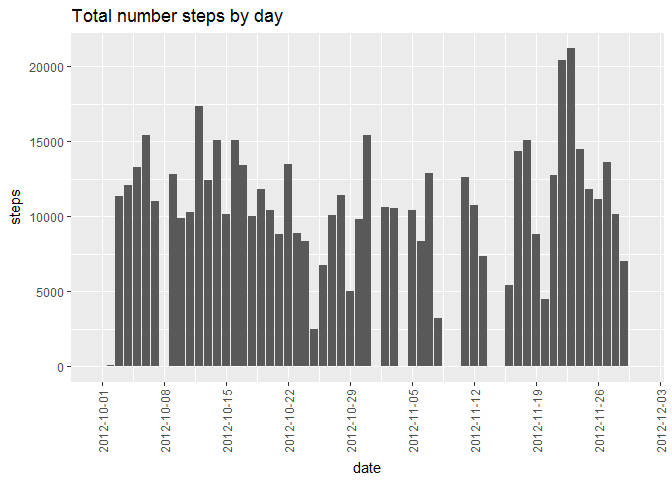
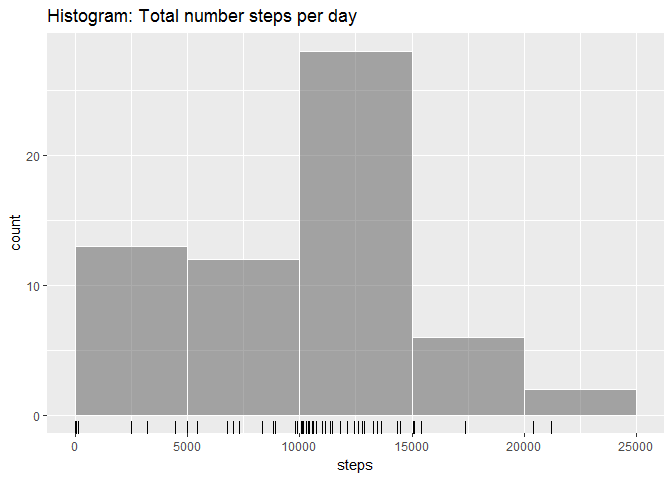
update plot

diff --git a/PA1_template.html b/PA1_template.html
@@ -146,10 +146,14 @@ summary(activity)</code></pre>
 <h2>What is mean total number of steps taken per day?</h2>
 <pre class="r"><code># 1. Calculate the total number of steps taken per day
 tots &lt;- setNames(aggregate(activity$steps,by=list(activity$date), sum, na.rm =TRUE), c(&quot;date&quot;,&quot;steps&quot;))</code></pre>
-<pre class="r"><code># 2. Make a histogram of the total number of steps taken each day
-toth &lt;- ggplot(data=tots, aes(x=date, y=steps)) + geom_bar(stat='identity') + scale_x_date(date_breaks = '1 week') + theme(axis.text.x = element_text(angle=90, vjust=0.5)) + labs(title=&quot;Total number steps by day&quot;)
+<pre class="r"><code># 2. Make a histogram of the total number of steps taken each day (If you do not understand the difference between a histogram and a barplot, research the difference between them.)
+toth &lt;- ggplot(data=tots, aes(steps)) + geom_histogram(breaks=seq(0,25000,by=5000), alpha=.5, col=&quot;white&quot;) + labs(title=&quot;Histogram: Total number steps per day&quot;) + geom_rug()
 print(toth)</code></pre>
[2 lines of base64/hex data omitted]
+<pre class="r"><code># 2. Make a barplot
+totbp &lt;- ggplot(data=tots, aes(x=date, y=steps)) + geom_bar(stat='identity') + scale_x_date(date_breaks = '1 week') + theme(axis.text.x = element_text(angle=90, vjust=0.5)) + labs(title=&quot;Barplot: Total number steps by day&quot;)
+print(totbp)</code></pre>
[1 lines of base64/hex data omitted]
 <pre class="r"><code># 3. Calculate and report the mean and median of the total number of steps taken per day
 mea &lt;- mean(tots$steps)
 med &lt;- median(tots$steps)</code></pre>
@@ -200,9 +204,14 @@ summary(activityc)</code></pre>
 
 totsc &lt;- setNames(aggregate(activityc$steps,by=list(activityc$date), sum), c(&quot;date&quot;,&quot;steps&quot;))
 
-tothc &lt;- ggplot(data=totsc, aes(x=date, y=steps)) + geom_bar(stat='identity') + scale_x_date(date_breaks = '1 week') + theme(axis.text.x = element_text(angle=90, vjust=0.5)) + labs(title=&quot;Total number steps by day&quot;)
+tothc &lt;- ggplot(data=totsc, aes(steps)) + geom_histogram(breaks=seq(0,25000,by=5000), alpha=.5, col=&quot;white&quot;) + labs(title=&quot;Histogram: Total number steps per day with imputed values&quot;) + geom_rug()
 print(tothc)</code></pre>
[2 lines of base64/hex data omitted]
+<pre class="r"><code># Make a barplot
+
+totbpc &lt;- ggplot(data=totsc, aes(x=date, y=steps)) + geom_bar(stat='identity') + scale_x_date(date_breaks = '1 week') + theme(axis.text.x = element_text(angle=90, vjust=0.5)) + labs(title=&quot;Barplot: Total number steps by day with imputed values&quot;)
+print(totbpc)</code></pre>
[1 lines of base64/hex data omitted]
 <pre class="r"><code>meac &lt;- mean(totsc$steps)
 medc &lt;- median(totsc$steps)</code></pre>
 <p>The mean and median of the total number of steps taken per day are <strong>10766.19</strong> and <strong>10766.19</strong></p>

diff --git a/PA1_template.md b/PA1_template.md
@@ -42,12 +42,21 @@ tots <- setNames(aggregate(activity$steps,by=list(activity$date), sum, na.rm =TR
 
 
 ```r
-# 2. Make a histogram of the total number of steps taken each day
-toth <- ggplot(data=tots, aes(x=date, y=steps)) + geom_bar(stat='identity') + scale_x_date(date_breaks = '1 week') + theme(axis.text.x = element_text(angle=90, vjust=0.5)) + labs(title="Total number steps by day")
+# 2. Make a histogram of the total number of steps taken each day (If you do not understand the difference between a histogram and a barplot, research the difference between them.)
+toth <- ggplot(data=tots, aes(steps)) + geom_histogram(breaks=seq(0,25000,by=5000), alpha=.5, col="white") + labs(title="Histogram: Total number steps per day") + geom_rug()
 print(toth)
 ```
 
 ![](figures/histogram_steps_by_day-1.png)<!-- -->
+
+
+```r
+# 2. Make a barplot
+totbp <- ggplot(data=tots, aes(x=date, y=steps)) + geom_bar(stat='identity') + scale_x_date(date_breaks = '1 week') + theme(axis.text.x = element_text(angle=90, vjust=0.5)) + labs(title="Barplot: Total number steps by day")
+print(totbp)
+```
+
+![](figures/barplot_steps_by_day-1.png)<!-- -->
 
 
 ```r
@@ -130,11 +139,21 @@ summary(activityc)
 
 totsc <- setNames(aggregate(activityc$steps,by=list(activityc$date), sum), c("date","steps"))
 
-tothc <- ggplot(data=totsc, aes(x=date, y=steps)) + geom_bar(stat='identity') + scale_x_date(date_breaks = '1 week') + theme(axis.text.x = element_text(angle=90, vjust=0.5)) + labs(title="Total number steps by day")
+tothc <- ggplot(data=totsc, aes(steps)) + geom_histogram(breaks=seq(0,25000,by=5000), alpha=.5, col="white") + labs(title="Histogram: Total number steps per day with imputed values") + geom_rug()
 print(tothc)
 ```
 
 ![](figures/histogram_steps_by_day_with_imputed_values-1.png)<!-- -->
+
+
+```r
+# Make a barplot
+
+totbpc <- ggplot(data=totsc, aes(x=date, y=steps)) + geom_bar(stat='identity') + scale_x_date(date_breaks = '1 week') + theme(axis.text.x = element_text(angle=90, vjust=0.5)) + labs(title="Barplot: Total number steps by day with imputed values")
+print(totbpc)
+```
+
+![](figures/barplot_steps_by_day_with_imputed_values-1.png)<!-- -->
 
 
 ```r
